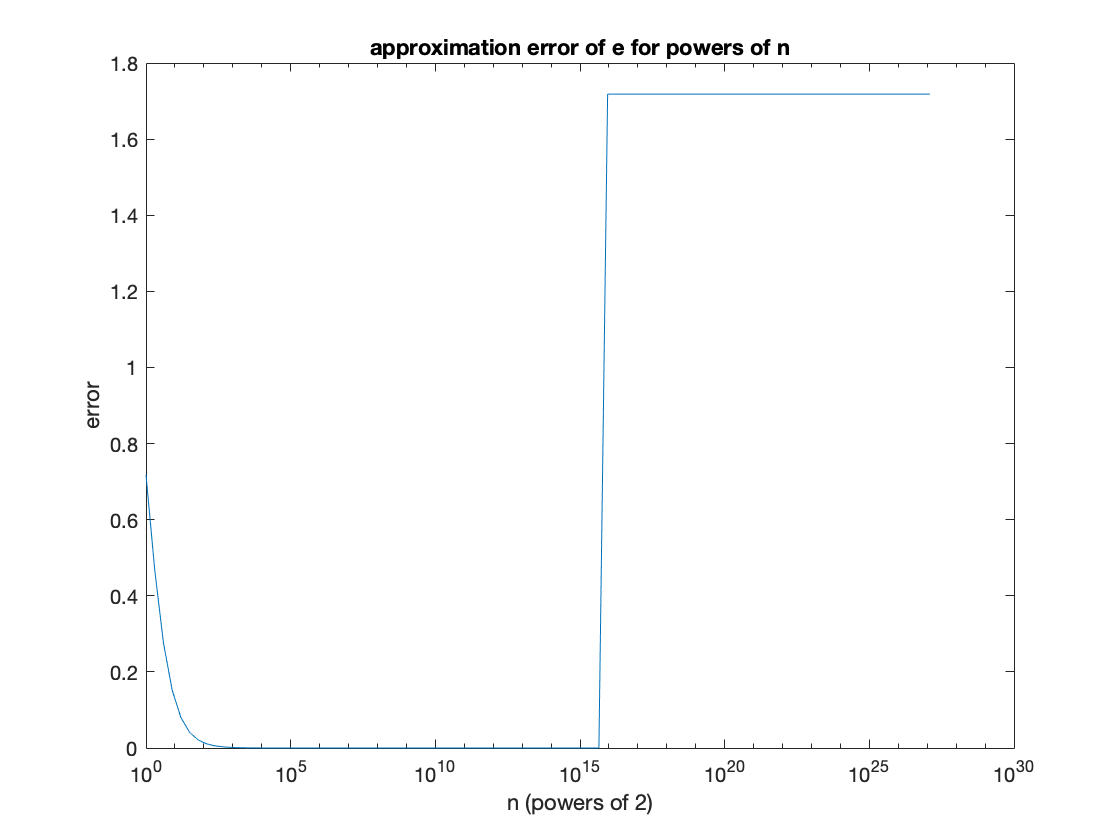
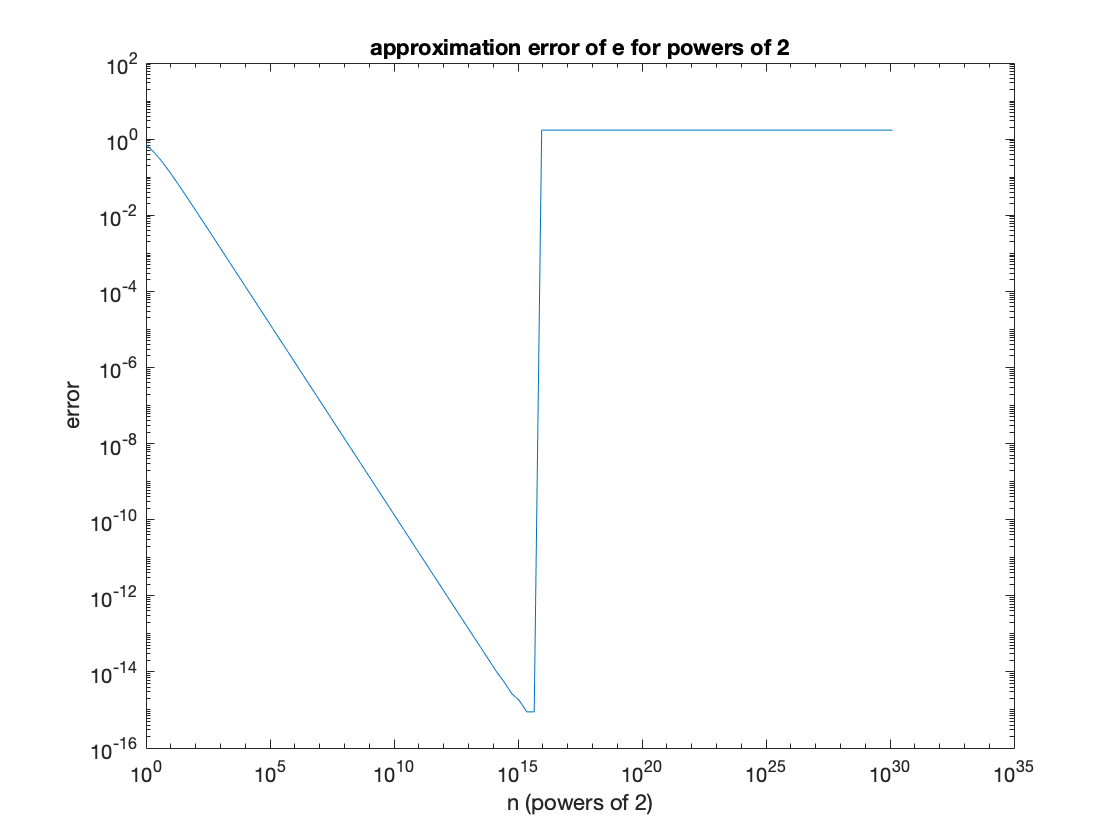
slight change to a2

diff --git a/Assignments/A1/a1.m b/Assignments/A1/a1.m
@@ -4,9 +4,9 @@ p1 = semilogy(x1, y1);
 xlabel('n');
 ylabel('error');
 title('approximation error of e for equal increments of n')
-x2 = power(2, 0:90);
+x2 = power(2, 0:100);
 y2 = arrayfun(@(x) exp(1) - power((1 + (1/x)), x), x2);
-p2 = semilogx(x2,y2);
+p2 = loglog(x2,y2);
 xlabel('n (powers of 2)')
 ylabel('error')
 title('approximation error of e for powers of 2')
